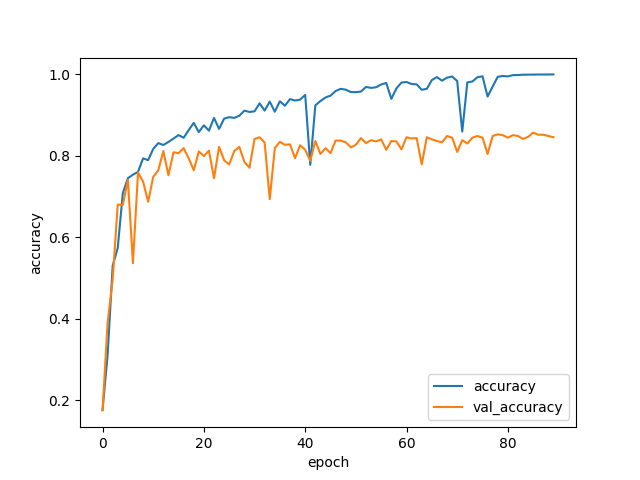
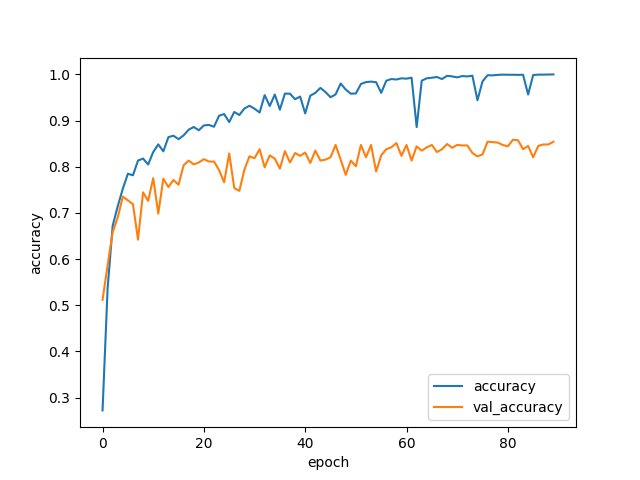
Stratify

diff --git a/template_proj3.py b/template_proj3.py
@@ -10,10 +10,10 @@ import matplotlib as mpl
 import matplotlib.pyplot as plt
 import pandas as pd
 
-images = np.load('./images.npy')
-images = np.reshape(images, (len(images), 28*28))
+images = np.load("./images.npy")
+images = np.reshape(images, (len(images), 28 * 28))
 
-labels = np.load('./labels.npy')
+labels = np.load("./labels.npy")
 
 seed = 42
 np.random.seed(seed)
@@ -23,49 +23,66 @@ print(labels.shape)
 
 labels = tf.keras.utils.to_categorical(labels)
 
-x_train, x_test, y_train, y_test = train_test_split(images, labels, test_size=0.40, random_state=42)
-x_test, x_validation, y_test, y_validation = train_test_split(x_test, y_test, test_size=0.375, random_state=42)
+x_train, x_test, y_train, y_test = train_test_split(
+    images, labels, test_size=0.40, random_state=seed, stratify=labels
+)
+x_test, x_validation, y_test, y_validation = train_test_split(
+    x_test, y_test, test_size=0.375, random_state=seed, stratify=y_test
+)
 print(x_train.shape)
 print(x_validation.shape)
 print(x_test.shape)
 
 # Model Template
 model = Sequential()  # declare model
-model.add(Dense(1024, input_shape=(28 * 28,), kernel_initializer='he_normal'))  # first layer
-model.add(Activation('relu'))
+model.add(
+    Dense(512, input_shape=(28 * 28,), kernel_initializer="he_normal")
+)  # first layer
+model.add(Activation("relu"))
 
-model.add(Dense(512, kernel_initializer='random_uniform'))
-model.add(Activation('relu'))
+model.add(Dense(256, kernel_initializer="random_uniform"))
+model.add(Activation("relu"))
 
-model.add(Dense(256, kernel_initializer='random_uniform'))
-model.add(Activation('relu'))
+model.add(Dense(256, kernel_initializer="random_uniform"))
+model.add(Activation("relu"))
 
-model.add(Dense(128, kernel_initializer='random_uniform'))
-model.add(Activation('relu'))
+model.add(Dense(256, kernel_initializer="random_uniform"))
+model.add(Activation("relu"))
 
-model.add(Dense(32, kernel_initializer='random_uniform'))
-model.add(Activation('relu'))
+model.add(Dense(32, kernel_initializer="random_uniform"))
+model.add(Activation("relu"))
 
 # Softmax is often used as the activation for the last layer of a classification network
 # because the result could be interpreted as a probability distribution.
-model.add(Dense(10, kernel_initializer='he_normal'))  # last layer
-model.add(Activation('softmax'))
+model.add(Dense(10, kernel_initializer="he_normal"))  # last layer
+model.add(Activation("softmax"))
 
 print(model.summary())
 # Compile Model
-model.compile(optimizer='sgd', loss='categorical_crossentropy', metrics=['accuracy'])
+model.compile(optimizer="sgd", loss="categorical_crossentropy", metrics=["accuracy"])
 
 # Train Model
-history = model.fit(x_train, y_train,
-                    validation_data=(x_validation, y_validation),
-                    epochs=90,
-                    batch_size=256)
+history = model.fit(
+    x_train,
+    y_train,
+    validation_data=(x_validation, y_validation),
+    epochs=90,
+    batch_size=256,
+)
 
 # Report Results
 
 print(history.history)
-plt.plot(range(len(history.history.get("accuracy"))), history.history.get("accuracy"), label="accuracy")
-plt.plot(range(len(history.history.get("val_accuracy"))), history.history.get("val_accuracy"), label="val_accuracy")
+plt.plot(
+    range(len(history.history.get("accuracy"))),
+    history.history.get("accuracy"),
+    label="accuracy",
+)
+plt.plot(
+    range(len(history.history.get("val_accuracy"))),
+    history.history.get("val_accuracy"),
+    label="val_accuracy",
+)
 plt.legend(loc="lower right")
 plt.xlabel("epoch")
 plt.ylabel("accuracy")
@@ -73,8 +90,14 @@ plt.savefig("accuracy.png")
 
 plt.clf()
 
-plt.plot(range(len(history.history.get("loss"))), history.history.get("loss"), label="loss")
-plt.plot(range(len(history.history.get("val_loss"))), history.history.get("val_loss"), label="val_loss")
+plt.plot(
+    range(len(history.history.get("loss"))), history.history.get("loss"), label="loss"
+)
+plt.plot(
+    range(len(history.history.get("val_loss"))),
+    history.history.get("val_loss"),
+    label="val_loss",
+)
 plt.legend(loc="upper right")
 plt.xlabel("epoch")
 plt.ylabel("loss")
@@ -118,20 +141,26 @@ for t in y_test:
 
 
 # Generate Confusion Matrix
-y_actual = pd.Series(actual, name='Actual')
-y_predict = pd.Series(projection, name='Predicted')
+y_actual = pd.Series(actual, name="Actual")
+y_predict = pd.Series(projection, name="Predicted")
 confusion_matrix = pd.crosstab(y_actual, y_predict)
 
 # Generate normalized confusion matrix
 norm_confusion_matrix = confusion_matrix / confusion_matrix.sum(axis=1)
 
 # Generate full confusion matrix with totals
-full_confusion_matrix = pd.crosstab(y_actual, y_predict, rownames=['True Label'], colnames=['Predicted Label'], margins=True)
+full_confusion_matrix = pd.crosstab(
+    y_actual,
+    y_predict,
+    rownames=["True Label"],
+    colnames=["Predicted Label"],
+    margins=True,
+)
 
 # print(norm_confusion_matrix)
 print(full_confusion_matrix)
 
-cmap = mpl.cm.get_cmap('Oranges')
+cmap = mpl.cm.get_cmap("Oranges")
 plt.matshow(confusion_matrix, cmap=cmap)
 plt.colorbar()
 tick_marks = np.arange(len(confusion_matrix.columns))
